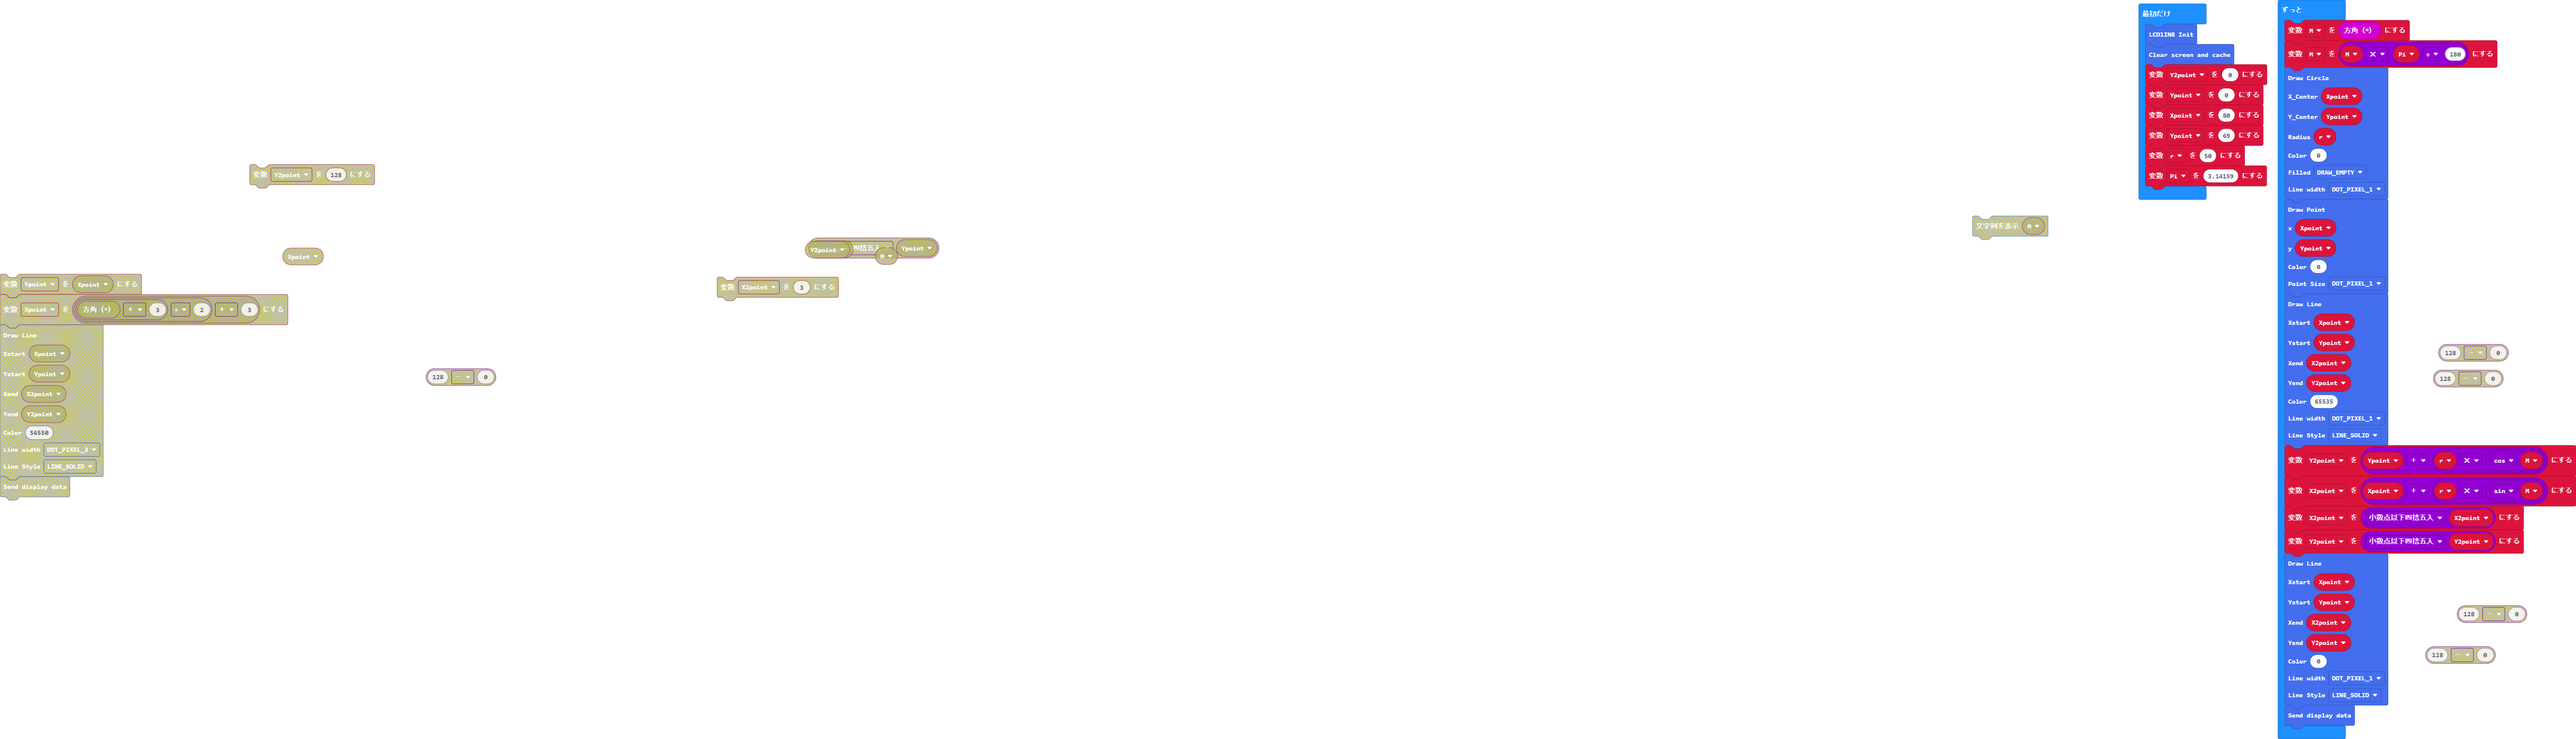
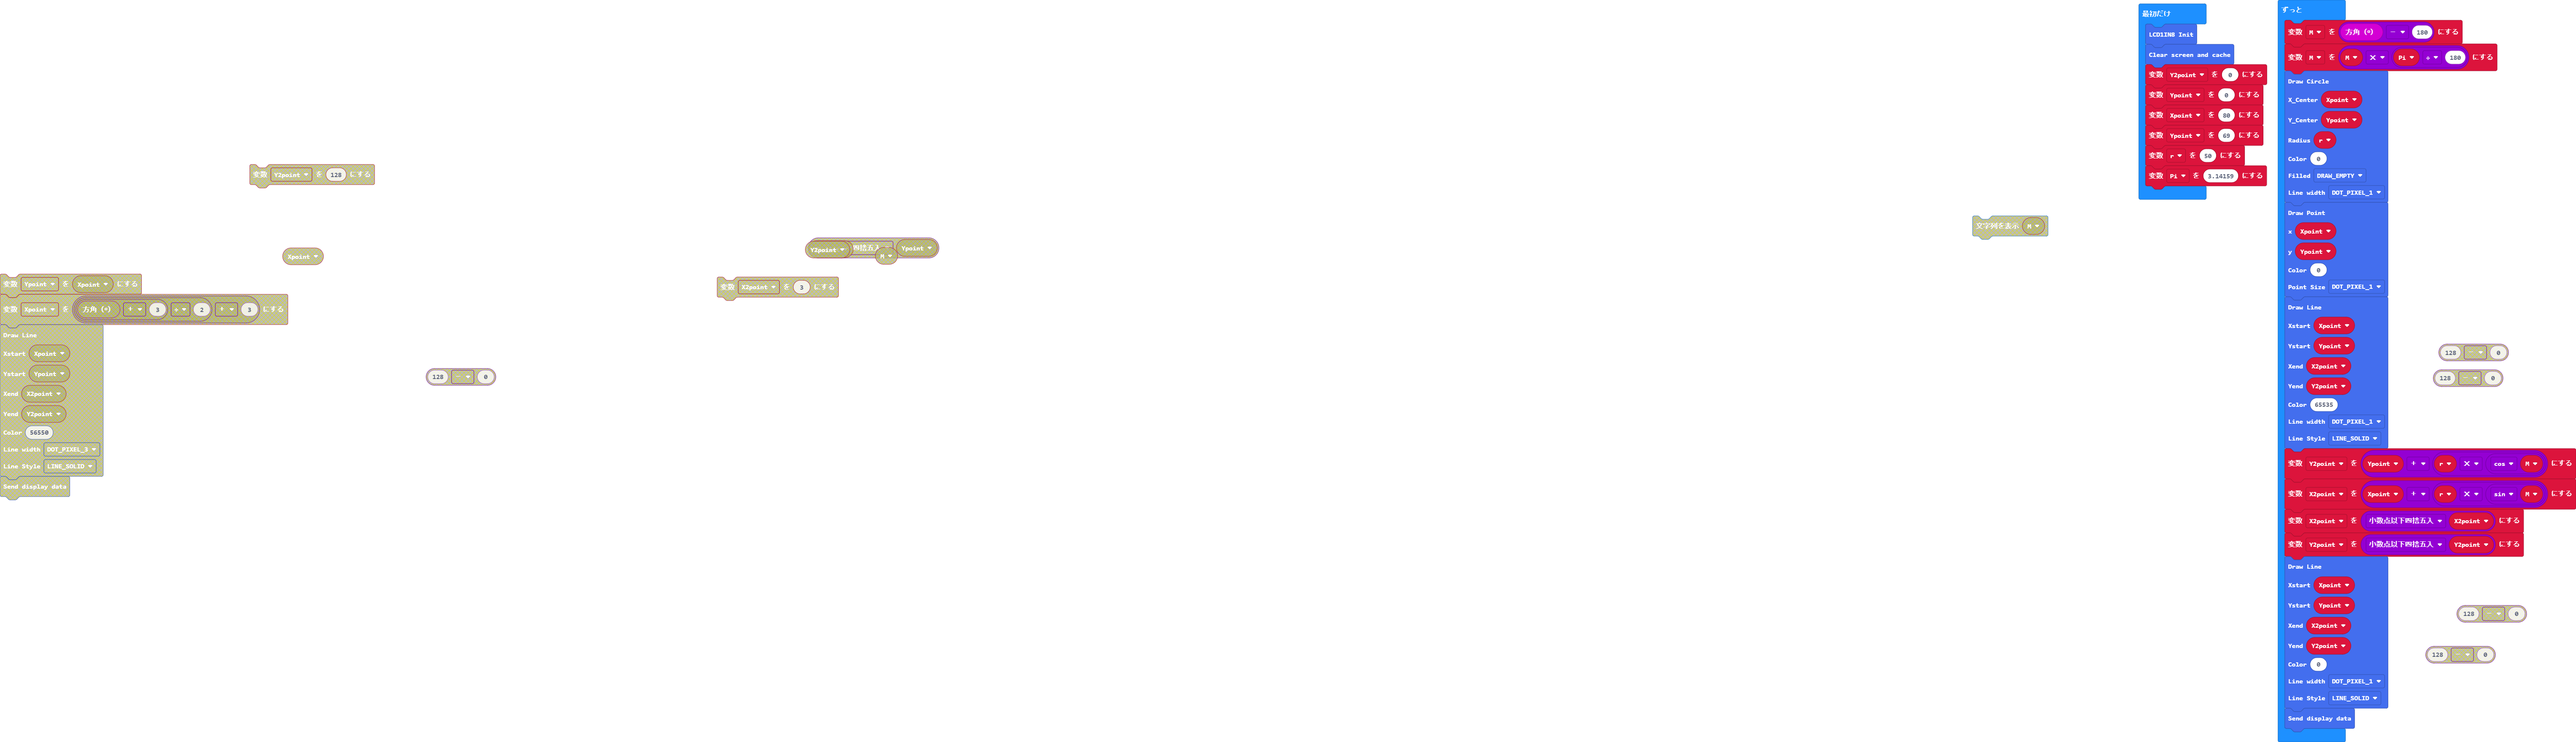
更新 pxt.json, main.blocks, main.ts

diff --git a/main.ts b/main.ts
@@ -9,7 +9,7 @@ Ypoint = 69
 let r = 50
 let Pi = 3.14159
 basic.forever(function () {
-    M = input.compassHeading()
+    M = input.compassHeading() - 180
     M = M * (Pi / 180)
     LCD1IN8.DrawCircle(
     Xpoint,
